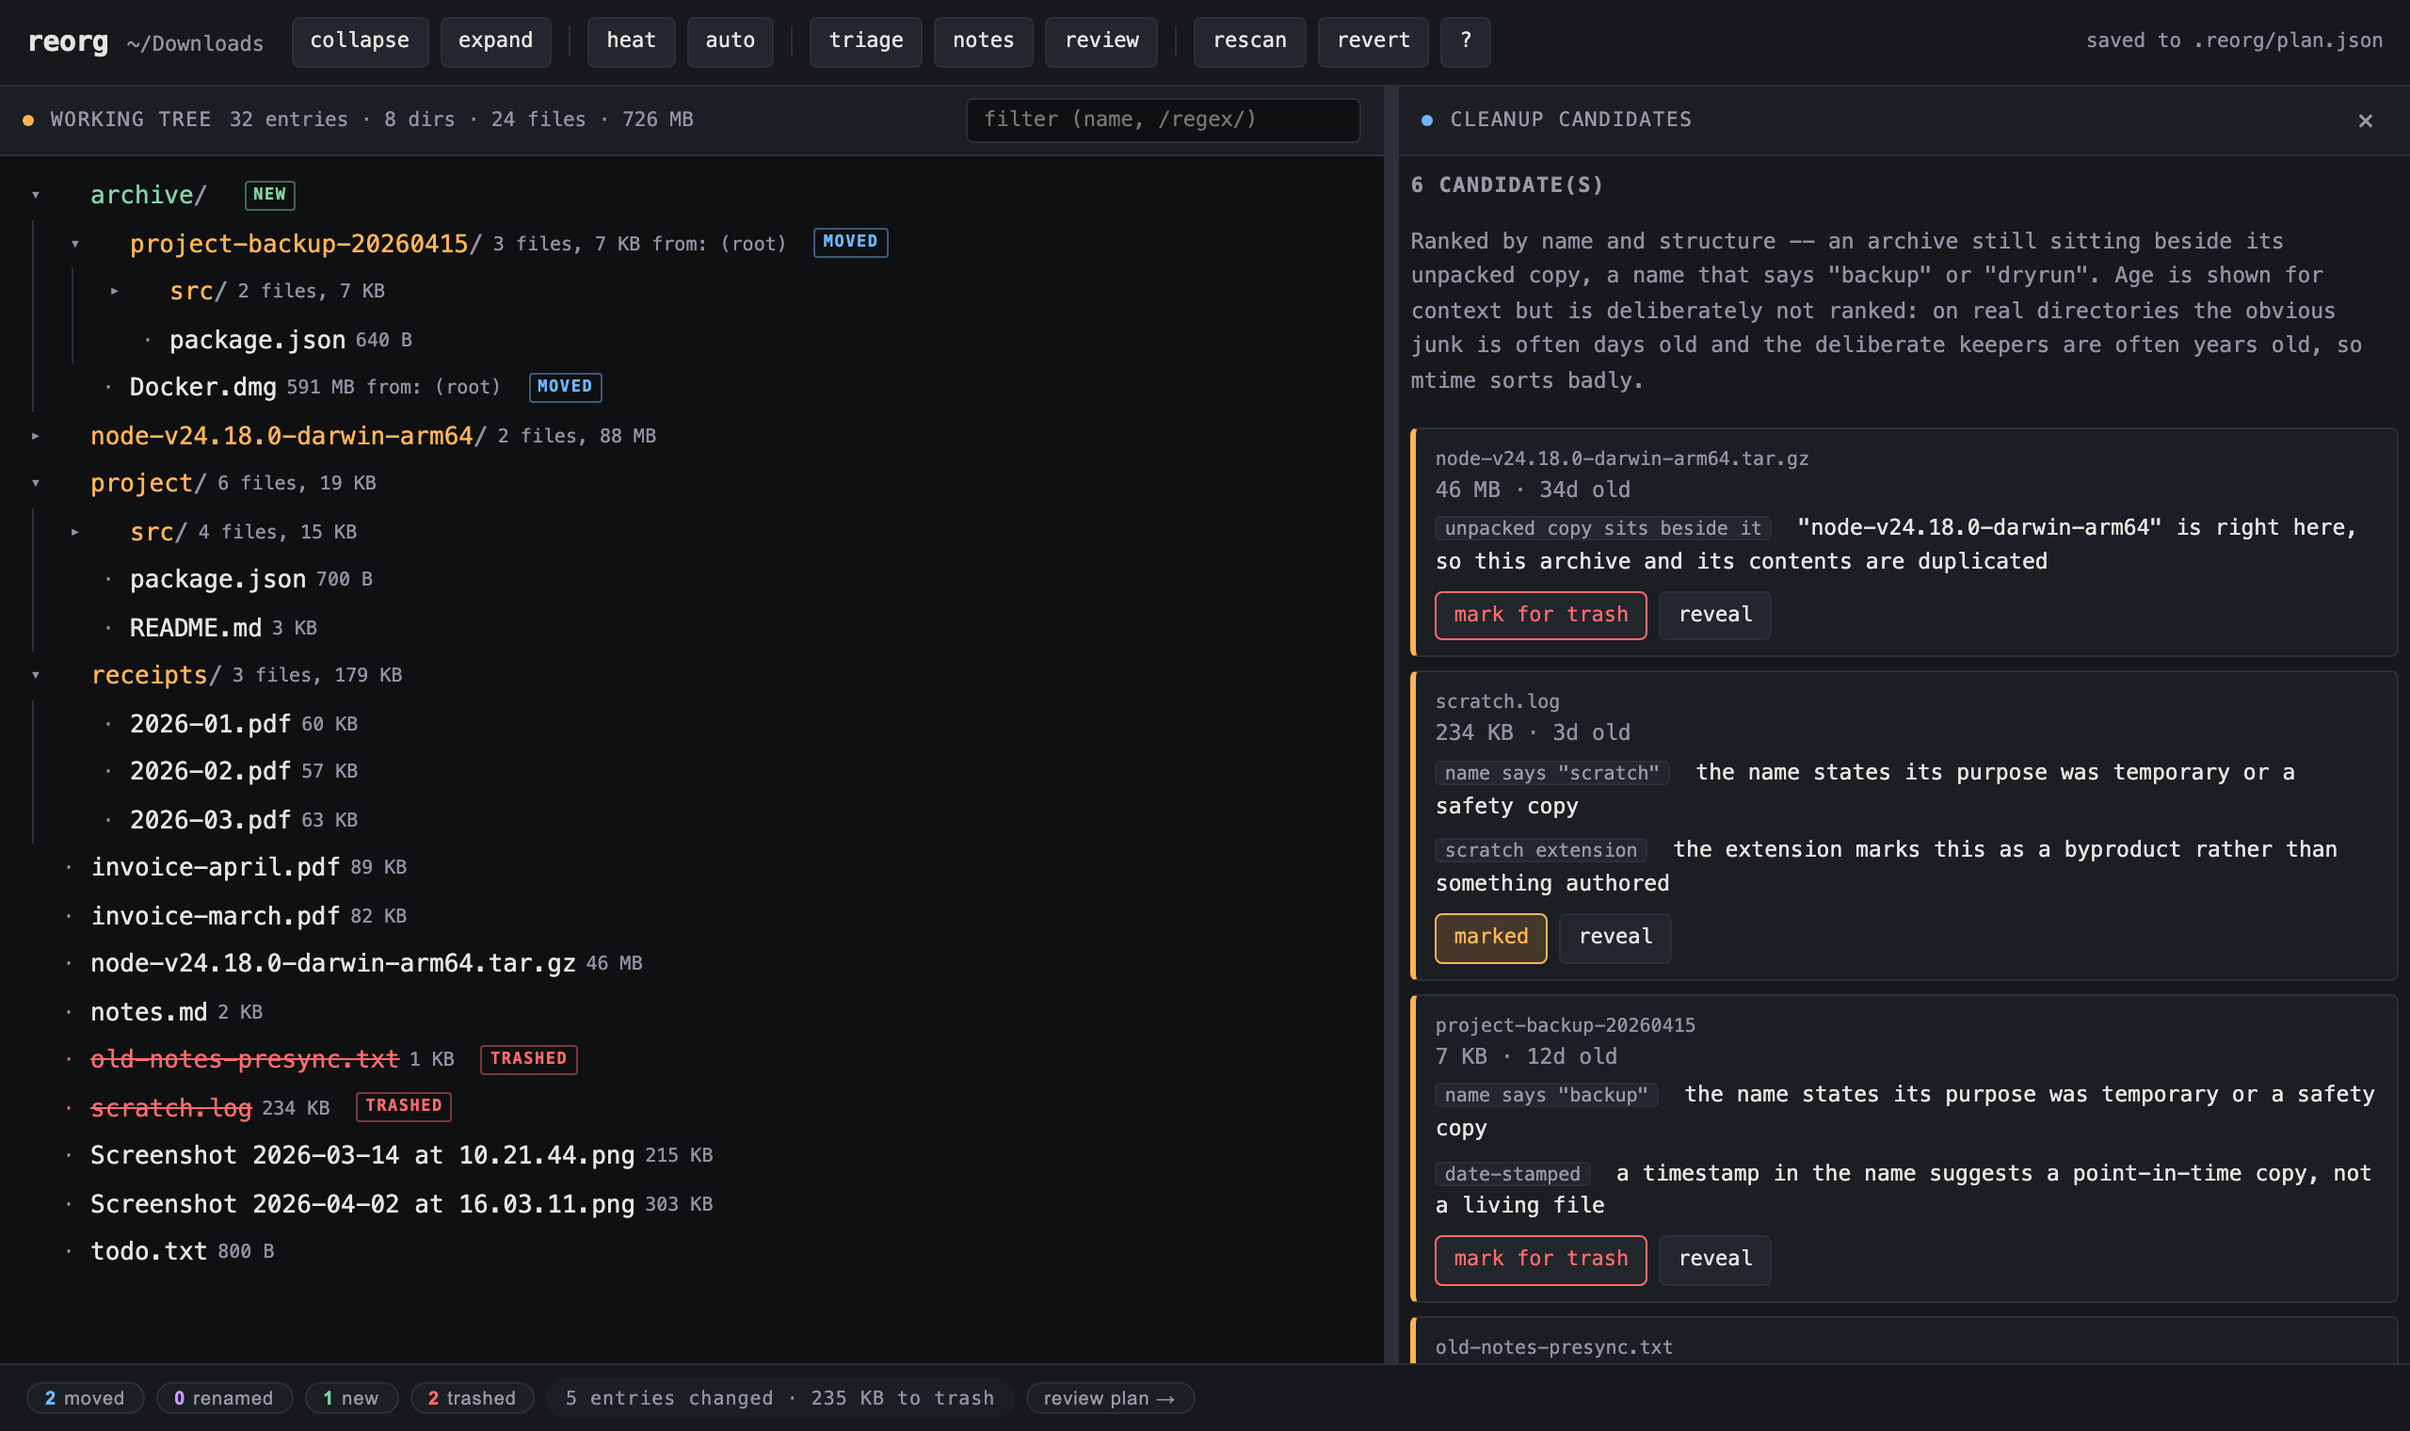
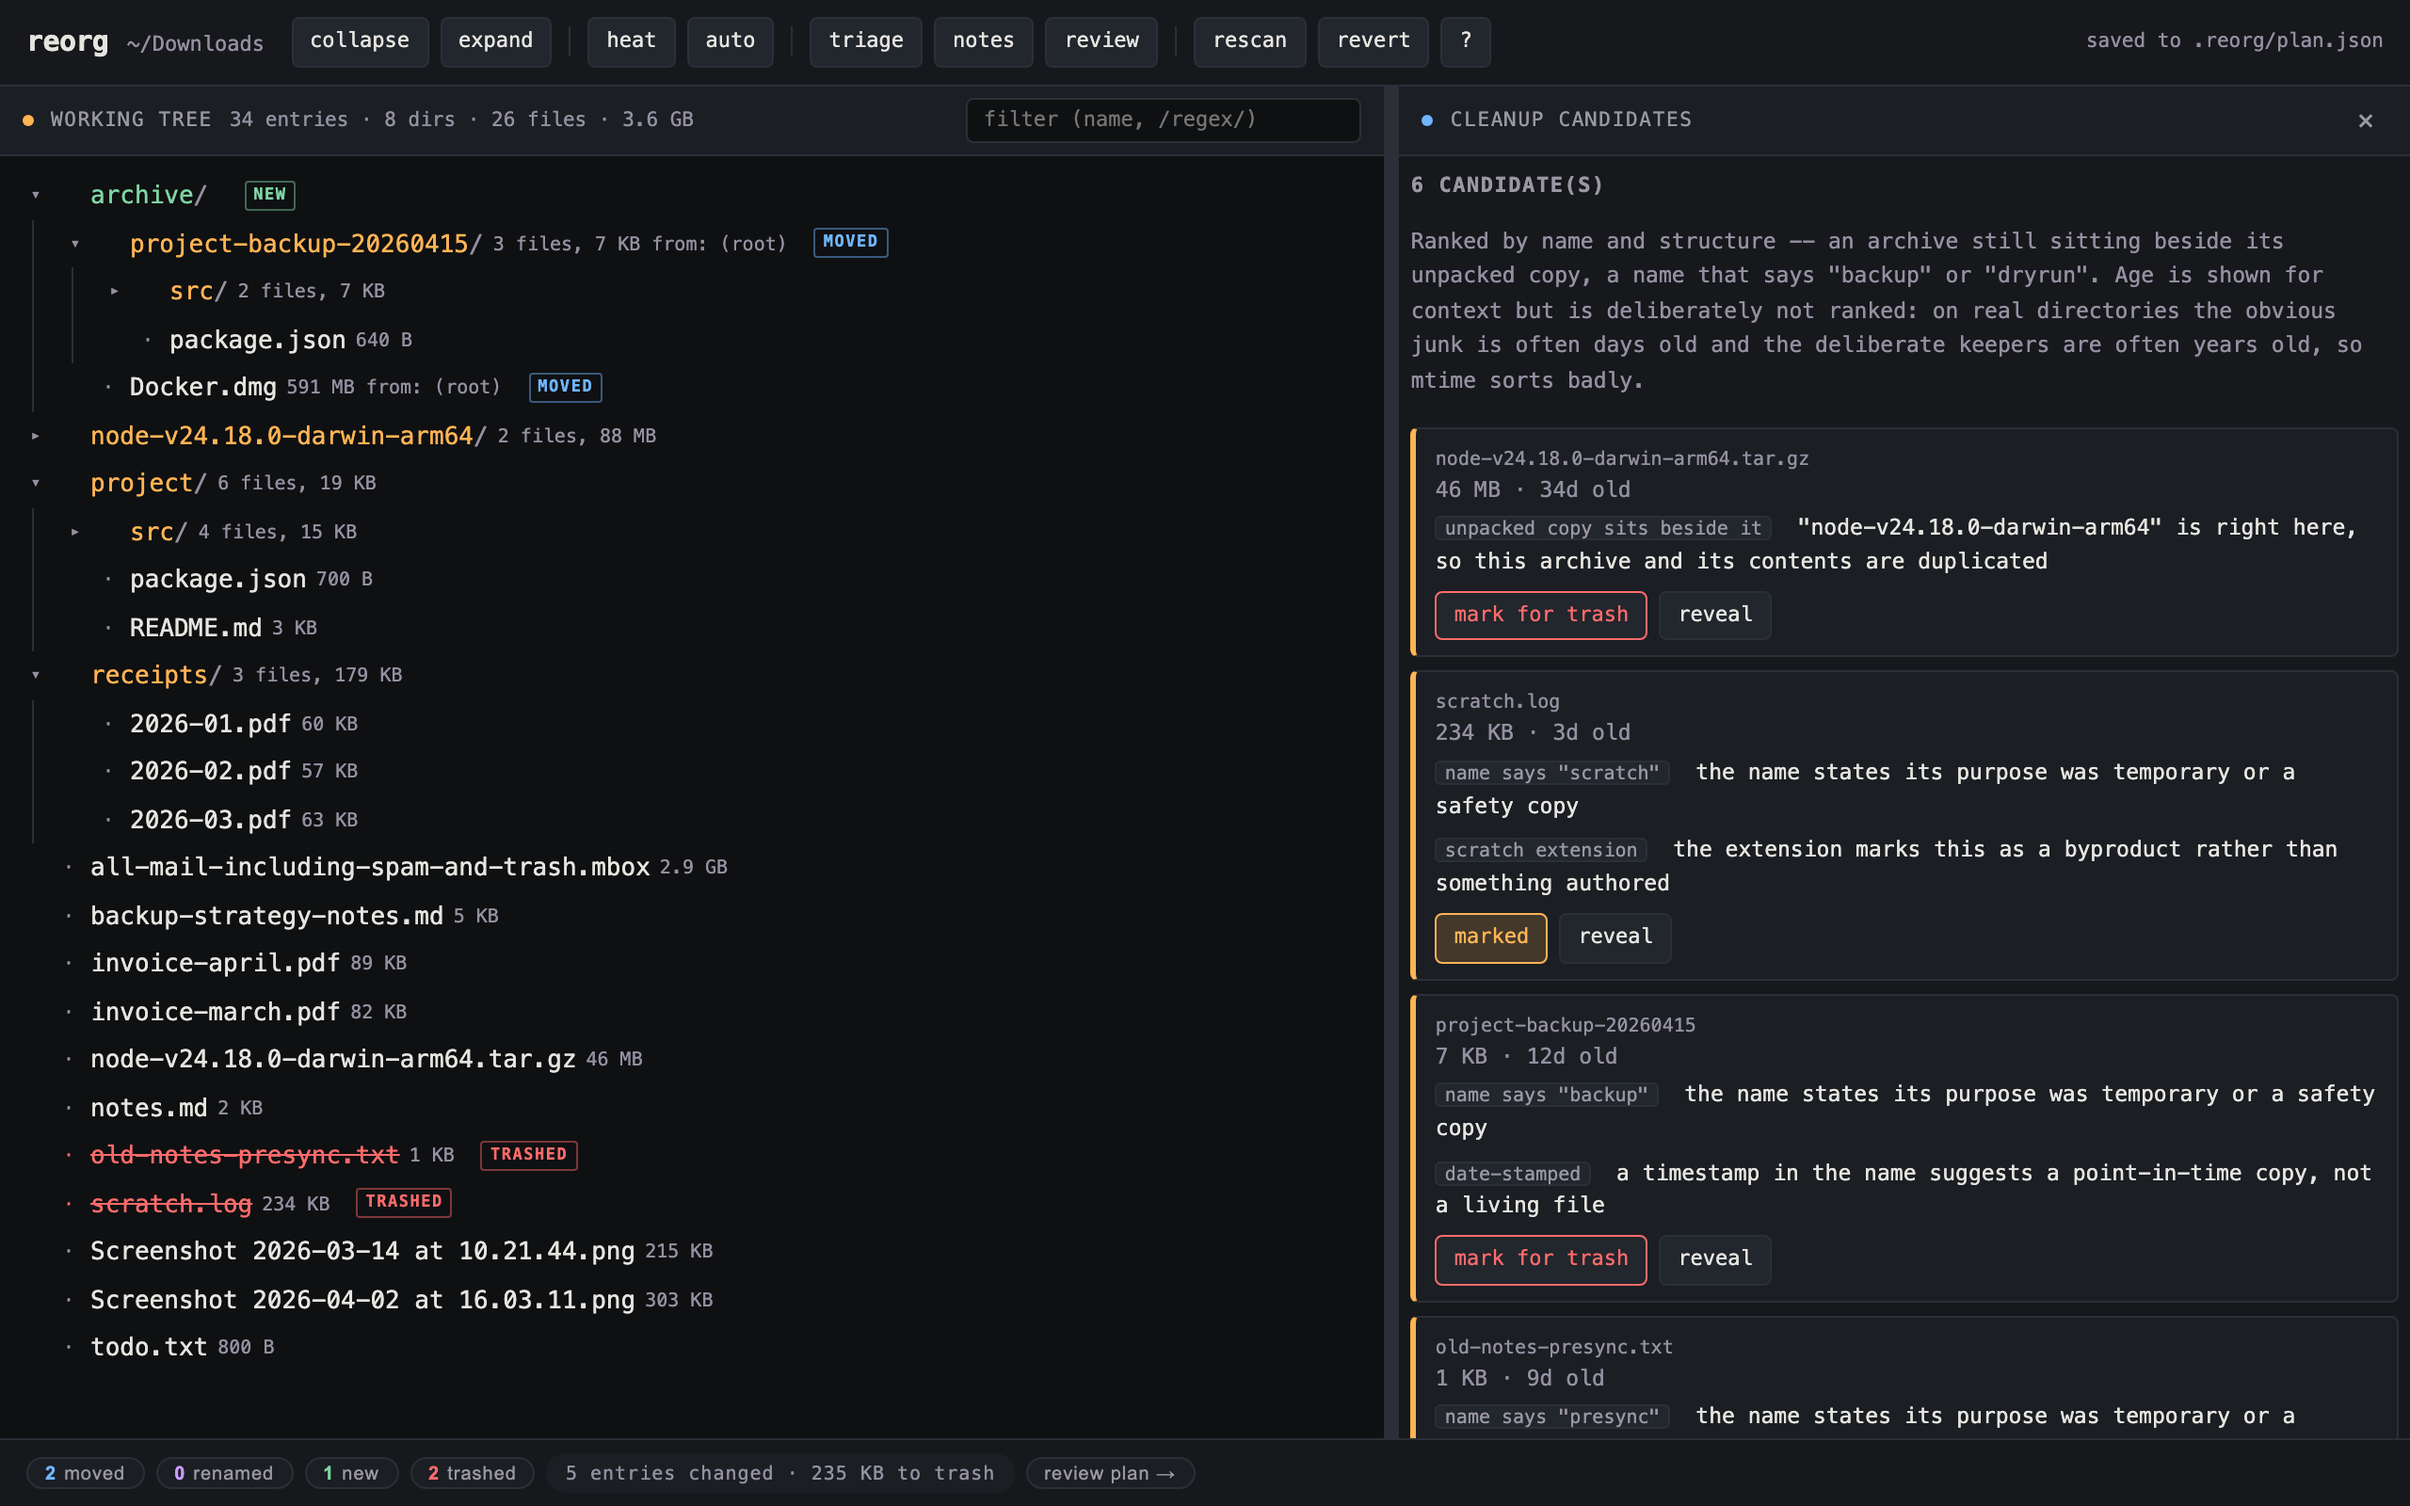
Put the false-positive names in the demo tree
The position-matters paragraph argued from two filenames that existed nowhere the
reader could see them, so it read as a claim about my own disk. Its point is that
the ranker DECLINES to flag things, and a candidate list cannot demonstrate absence
on its own -- the passed-over entries have to be on screen.

So backup-strategy-notes.md and all-mail-including-spam-and-trash.mbox now sit in
the generated tree. The screenshot shows both sides of the rule at once:
project-backup-20260415 flagged, those two untouched, candidate count still 6. The
paragraph points at that instead of asserting it.

Verified against the ranker rather than assumed -- all three outcomes asserted
directly through analyze()/ranked(), since a README claiming restraint the code does
not actually have would be worse than the vague version.

Viewport grows to 800 so the two added rows do not clip the last entry.

diff --git a/README.md b/README.md
@@ -127,7 +127,7 @@ Summaries are stored in the plan and keyed by path, so they survive a rescan.
 | a bare `.git` clone | a mirror kept as a one-off safety copy |
 | bulky | worth a decision purely for what it costs to keep |
 
-Position matters, because the same word can name a subject rather than a status. `work-backup-20260317` is a backup; `backup-strategy-notes.md` is a document about backups, and `all-mail-including-spam-and-trash.mbox` is three gigabytes of actual mail. Only trailing markers count – both of those were real false positives, and flagging 3 GB of someone's mail as trash is how a suggestion list loses its reader.
+Position matters, because the same word can name a subject rather than a status. Only trailing markers count, and the screenshot above shows both sides of that: `project-backup-20260415` is flagged, while `backup-strategy-notes.md` and `all-mail-including-spam-and-trash.mbox` sit in the same tree untouched – one is a document *about* backups, the other is 2.9 GB of actual mail. Both of those were real false positives before the position rule went in, and flagging 3 GB of someone's mail as trash is how a suggestion list loses its reader.
 
 Emptiness is deliberately not a signal: empty directories are often intentional (mount points, placeholders) and cost nothing to keep.
 
